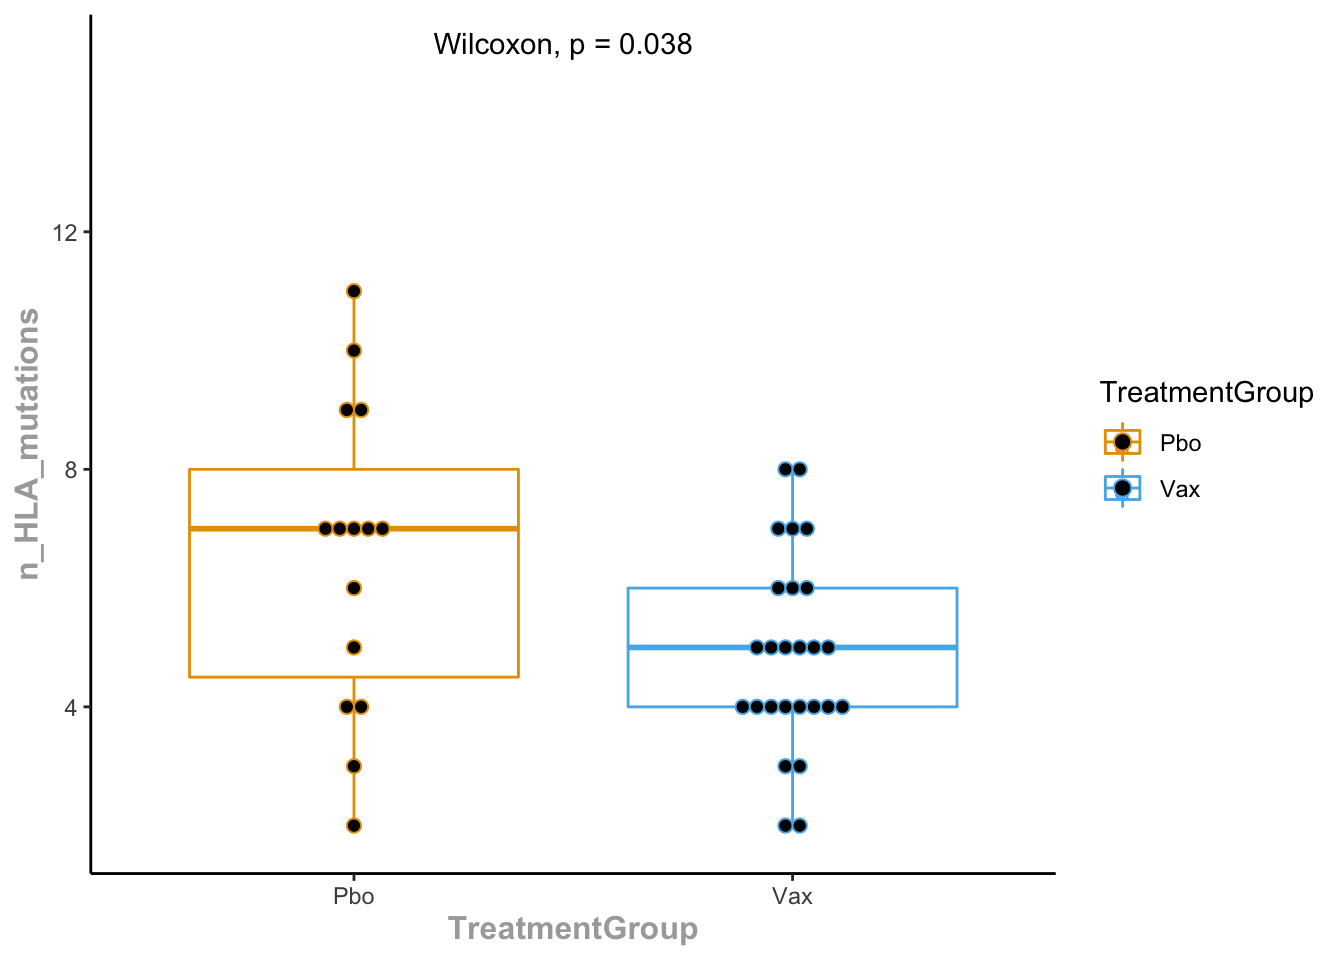
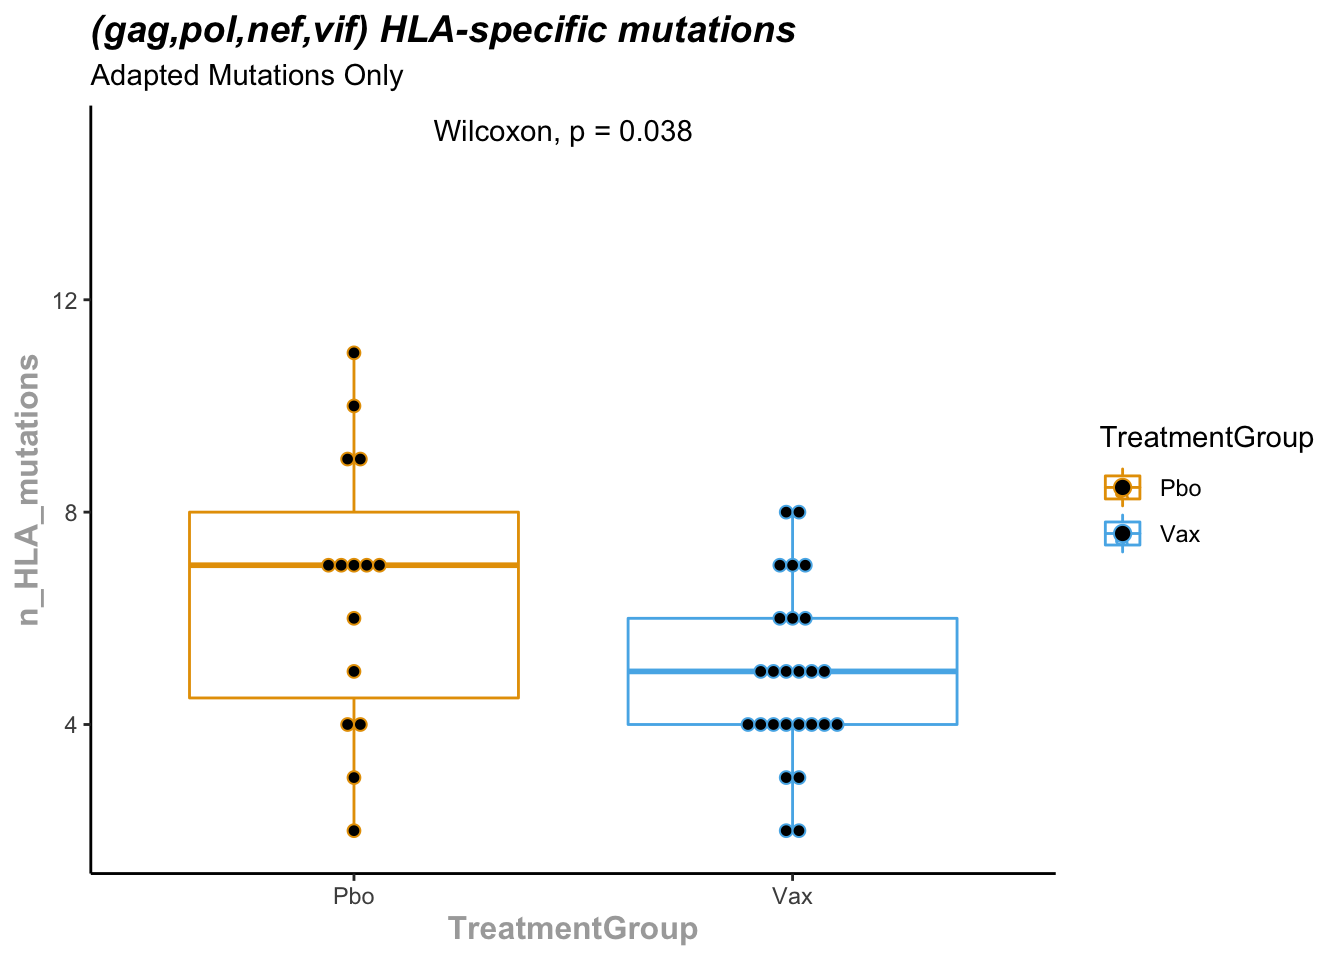
Build site.

diff --git a/docs/051_AdaptedHLAMutations.html b/docs/051_AdaptedHLAMutations.html
@@ -372,7 +372,7 @@ div.tocify {
 
 <p>
 <button type="button" class="btn btn-default btn-workflowr btn-workflowr-report" data-toggle="collapse" data-target="#workflowr-report">
-<span class="glyphicon glyphicon-list" aria-hidden="true"></span> workflowr <span class="glyphicon glyphicon-exclamation-sign text-danger" aria-hidden="true"></span>
+<span class="glyphicon glyphicon-list" aria-hidden="true"></span> workflowr <span class="glyphicon glyphicon-ok text-success" aria-hidden="true"></span>
 </button>
 </p>
 <div id="workflowr-report" class="collapse">
@@ -381,7 +381,7 @@ div.tocify {
 <a data-toggle="tab" href="#summary">Summary</a>
 </li>
 <li>
-<a data-toggle="tab" href="#checks"> Checks <span class="glyphicon glyphicon-exclamation-sign text-danger" aria-hidden="true"></span> </a>
+<a data-toggle="tab" href="#checks"> Checks <span class="glyphicon glyphicon-ok text-success" aria-hidden="true"></span> </a>
 </li>
 <li>
 <a data-toggle="tab" href="#versions">Past versions</a>
@@ -393,7 +393,7 @@ div.tocify {
 <strong>Last updated:</strong> 2022-03-11
 </p>
 <p>
-<strong>Checks:</strong> <span class="glyphicon glyphicon-ok text-success" aria-hidden="true"></span> 6 <span class="glyphicon glyphicon-exclamation-sign text-danger" aria-hidden="true"></span> 1
+<strong>Checks:</strong> <span class="glyphicon glyphicon-ok text-success" aria-hidden="true"></span> 7 <span class="glyphicon glyphicon-exclamation-sign text-danger" aria-hidden="true"></span> 0
 </p>
 <p>
 <strong>Knit directory:</strong> <code>HLA_Analysis/</code> <span class="glyphicon glyphicon-question-sign" aria-hidden="true" title="This is the local directory in which the code in this file was executed."> </span>
@@ -409,12 +409,12 @@ This reproducible <a href="https://rmarkdown.rstudio.com">R Markdown</a> analysi
 <div class="panel panel-default">
 <div class="panel-heading">
 <p class="panel-title">
-<a data-toggle="collapse" data-parent="#workflowr-checks" href="#strongRMarkdownfilestronguncommittedchanges"> <span class="glyphicon glyphicon-exclamation-sign text-danger" aria-hidden="true"></span> <strong>R Markdown file:</strong> uncommitted changes </a>
+<a data-toggle="collapse" data-parent="#workflowr-checks" href="#strongRMarkdownfilestronguptodate"> <span class="glyphicon glyphicon-ok text-success" aria-hidden="true"></span> <strong>R Markdown file:</strong> up-to-date </a>
 </p>
 </div>
-<div id="strongRMarkdownfilestronguncommittedchanges" class="panel-collapse collapse">
+<div id="strongRMarkdownfilestronguptodate" class="panel-collapse collapse">
 <div class="panel-body">
-<p>The R Markdown file has unstaged changes. To know which version of the R Markdown file created these results, you’ll want to first commit it to the Git repo. If you’re still working on the analysis, you can ignore this warning. When you’re finished, you can run <code>wflow_publish</code> to commit the R Markdown file and build the HTML.</p>
+<p>Great! Since the R Markdown file has been committed to the Git repository, you know the exact version of the code that produced these results.</p>
 </div>
 </div>
 </div>
@@ -481,16 +481,16 @@ This reproducible <a href="https://rmarkdown.rstudio.com">R Markdown</a> analysi
 <div class="panel panel-default">
 <div class="panel-heading">
 <p class="panel-title">
-<a data-toggle="collapse" data-parent="#workflowr-checks" href="#strongRepositoryversionstrongahrefhttpsgithubcommnogueraHLAAnalysistreef600d53c3a06f37e1be24473f9b1dba49472790ftargetblankf600d53a"> <span class="glyphicon glyphicon-ok text-success" aria-hidden="true"></span> <strong>Repository version:</strong> <a href="https://github.com/mnoguera/HLA_Analysis/tree/f600d53c3a06f37e1be24473f9b1dba49472790f" target="_blank">f600d53</a> </a>
+<a data-toggle="collapse" data-parent="#workflowr-checks" href="#strongRepositoryversionstrongahrefhttpsgithubcommnogueraHLAAnalysistree521de8e32107c8be83412fb3bdf481364095a3b1targetblank521de8ea"> <span class="glyphicon glyphicon-ok text-success" aria-hidden="true"></span> <strong>Repository version:</strong> <a href="https://github.com/mnoguera/HLA_Analysis/tree/521de8e32107c8be83412fb3bdf481364095a3b1" target="_blank">521de8e</a> </a>
 </p>
 </div>
[2 lines of base64/hex data omitted]
 <div class="panel-body">
 <p>
 Great! You are using Git for version control. Tracking code development and connecting the code version to the results is critical for reproducibility.
 </p>
 <p>
-The results in this page were generated with repository version <a href="https://github.com/mnoguera/HLA_Analysis/tree/f600d53c3a06f37e1be24473f9b1dba49472790f" target="_blank">f600d53</a>. See the <em>Past versions</em> tab to see a history of the changes made to the R Markdown and HTML files.
+The results in this page were generated with repository version <a href="https://github.com/mnoguera/HLA_Analysis/tree/521de8e32107c8be83412fb3bdf481364095a3b1" target="_blank">521de8e</a>. See the <em>Past versions</em> tab to see a history of the changes made to the R Markdown and HTML files.
 </p>
 <p>
 Note that you need to be careful to ensure that all relevant files for the analysis have been committed to Git prior to generating the results (you can use <code>wflow_publish</code> or <code>wflow_git_commit</code>). workflowr only checks the R Markdown file, but you know if there are other scripts or data files that it depends on. Below is the status of the Git repository when the results were generated:
@@ -508,9 +508,8 @@ Ignored files:
     Ignored:    data/Optimal list 2022 with coordinates for ALX 002 analyses 3-2-2022 .xls
     Ignored:    data/VariantData_PASeq/
 
-Unstaged changes:
-    Modified:   analysis/050_AllHLAMutations.Rmd
-    Modified:   analysis/051_AdaptedHLAMutations.Rmd
+Untracked files:
+    Untracked:  analysis/060_EpitopeSequences.Rmd
 
 </code></pre>
 <p>
@@ -549,6 +548,57 @@ Message
 </tr>
 </thead>
 <tbody>
+<tr>
+<td>
+Rmd
+</td>
+<td>
+<a href="https://github.com/mnoguera/HLA_Analysis/blob/521de8e32107c8be83412fb3bdf481364095a3b1/analysis/051_AdaptedHLAMutations.Rmd" target="_blank">521de8e</a>
+</td>
+<td>
+Marc Noguera-Julian
+</td>
+<td>
+2022-03-11
+</td>
+<td>
+workflowr::wflow_publish(all = T)
+</td>
+</tr>
+<tr>
+<td>
+Rmd
+</td>
+<td>
+<a href="https://github.com/mnoguera/HLA_Analysis/blob/2102c289b5620736495be345342b890ee3d989a6/analysis/051_AdaptedHLAMutations.Rmd" target="_blank">2102c28</a>
+</td>
+<td>
+Marc Noguera-Julian
+</td>
+<td>
+2022-03-11
+</td>
+<td>
+remove tables
+</td>
+</tr>
+<tr>
+<td>
+html
+</td>
+<td>
+<a href="https://rawcdn.githack.com/mnoguera/HLA_Analysis/2102c289b5620736495be345342b890ee3d989a6/docs/051_AdaptedHLAMutations.html" target="_blank">2102c28</a>
+</td>
+<td>
+Marc Noguera-Julian
+</td>
+<td>
+2022-03-11
+</td>
+<td>
+remove tables
+</td>
+</tr>
 <tr>
 <td>
 html
@@ -748,7 +798,7 @@ HLA_mutations&lt;-HLA_mutations %&gt;%
 </div>
 <div id="patients-variants" class="section level3">
 <h3>Patients Variants</h3>
-<p>We obtaine AA variants from PASeq and do several things:</p>
+<p>We obtain AA variants from PASeq analysis using self-consensus and codon-level variant calling only on pol, gag, vif and nef. We do several things:</p>
 <ul>
 <li>Keep those above 20% of the viral population.</li>
 <li>Remove Deletion</li>
@@ -772,8 +822,8 @@ variant_df&lt;-lapply(temp, read.csv) %&gt;%
   dplyr::mutate(SampleID=paste0(&quot;Alx_&quot;,strsplit(ID1,&quot;\ &quot;,fixed=T)[[1]][2]))</code></pre>
 </div>
 </div>
-<div id="data-merging" class="section level2">
-<h2>Data Merging</h2>
+<div id="data-analysis" class="section level2">
+<h2>Data Analysis</h2>
 <div id="hla-specifc-mutations-within-each-patient.-2d-resolution-and-both-adaptednonadapted" class="section level3">
 <h3>HLA-specifc mutations within each patient. 2D resolution and both adapted/nonadapted</h3>
 <p>For each patient we select the mutations that are specific to his/her HLA and create a patient-specific mutation string that contains all mutations.</p>
@@ -824,6 +874,7 @@ for (patient in (patient_hla$SampleID)){
     theme_classic()+
     #geom_jitter(shape=16, position=position_jitter(0.2))+
     scale_color_manual(values=c(&quot;#E69F00&quot;, &quot;#56B4E9&quot;))+
+    ggtitle(&quot;(gag,pol,nef,vif) HLA-specific mutations&quot;,subtitle = &quot;Adapted Mutations Only&quot;)+
     theme(
       plot.title = element_text(color=&quot;black&quot;, size=14, face=&quot;bold.italic&quot;),
       axis.title.x = element_text(color=&quot;darkgrey&quot;, size=12, face=&quot;bold&quot;),

diff --git a/docs/050_AllHLAMutations.html b/docs/050_AllHLAMutations.html
@@ -372,7 +372,7 @@ div.tocify {
 
 <p>
 <button type="button" class="btn btn-default btn-workflowr btn-workflowr-report" data-toggle="collapse" data-target="#workflowr-report">
-<span class="glyphicon glyphicon-list" aria-hidden="true"></span> workflowr <span class="glyphicon glyphicon-exclamation-sign text-danger" aria-hidden="true"></span>
+<span class="glyphicon glyphicon-list" aria-hidden="true"></span> workflowr <span class="glyphicon glyphicon-ok text-success" aria-hidden="true"></span>
 </button>
 </p>
 <div id="workflowr-report" class="collapse">
@@ -381,7 +381,7 @@ div.tocify {
 <a data-toggle="tab" href="#summary">Summary</a>
 </li>
 <li>
-<a data-toggle="tab" href="#checks"> Checks <span class="glyphicon glyphicon-exclamation-sign text-danger" aria-hidden="true"></span> </a>
+<a data-toggle="tab" href="#checks"> Checks <span class="glyphicon glyphicon-ok text-success" aria-hidden="true"></span> </a>
 </li>
 <li>
 <a data-toggle="tab" href="#versions">Past versions</a>
@@ -393,7 +393,7 @@ div.tocify {
 <strong>Last updated:</strong> 2022-03-11
 </p>
 <p>
-<strong>Checks:</strong> <span class="glyphicon glyphicon-ok text-success" aria-hidden="true"></span> 6 <span class="glyphicon glyphicon-exclamation-sign text-danger" aria-hidden="true"></span> 1
+<strong>Checks:</strong> <span class="glyphicon glyphicon-ok text-success" aria-hidden="true"></span> 7 <span class="glyphicon glyphicon-exclamation-sign text-danger" aria-hidden="true"></span> 0
 </p>
 <p>
 <strong>Knit directory:</strong> <code>HLA_Analysis/</code> <span class="glyphicon glyphicon-question-sign" aria-hidden="true" title="This is the local directory in which the code in this file was executed."> </span>
@@ -409,12 +409,12 @@ This reproducible <a href="https://rmarkdown.rstudio.com">R Markdown</a> analysi
 <div class="panel panel-default">
 <div class="panel-heading">
 <p class="panel-title">
-<a data-toggle="collapse" data-parent="#workflowr-checks" href="#strongRMarkdownfilestronguncommittedchanges"> <span class="glyphicon glyphicon-exclamation-sign text-danger" aria-hidden="true"></span> <strong>R Markdown file:</strong> uncommitted changes </a>
+<a data-toggle="collapse" data-parent="#workflowr-checks" href="#strongRMarkdownfilestronguptodate"> <span class="glyphicon glyphicon-ok text-success" aria-hidden="true"></span> <strong>R Markdown file:</strong> up-to-date </a>
 </p>
 </div>
-<div id="strongRMarkdownfilestronguncommittedchanges" class="panel-collapse collapse">
+<div id="strongRMarkdownfilestronguptodate" class="panel-collapse collapse">
 <div class="panel-body">
-<p>The R Markdown file has unstaged changes. To know which version of the R Markdown file created these results, you’ll want to first commit it to the Git repo. If you’re still working on the analysis, you can ignore this warning. When you’re finished, you can run <code>wflow_publish</code> to commit the R Markdown file and build the HTML.</p>
+<p>Great! Since the R Markdown file has been committed to the Git repository, you know the exact version of the code that produced these results.</p>
 </div>
 </div>
 </div>
@@ -481,16 +481,16 @@ This reproducible <a href="https://rmarkdown.rstudio.com">R Markdown</a> analysi
 <div class="panel panel-default">
 <div class="panel-heading">
 <p class="panel-title">
-<a data-toggle="collapse" data-parent="#workflowr-checks" href="#strongRepositoryversionstrongahrefhttpsgithubcommnogueraHLAAnalysistreef600d53c3a06f37e1be24473f9b1dba49472790ftargetblankf600d53a"> <span class="glyphicon glyphicon-ok text-success" aria-hidden="true"></span> <strong>Repository version:</strong> <a href="https://github.com/mnoguera/HLA_Analysis/tree/f600d53c3a06f37e1be24473f9b1dba49472790f" target="_blank">f600d53</a> </a>
+<a data-toggle="collapse" data-parent="#workflowr-checks" href="#strongRepositoryversionstrongahrefhttpsgithubcommnogueraHLAAnalysistree521de8e32107c8be83412fb3bdf481364095a3b1targetblank521de8ea"> <span class="glyphicon glyphicon-ok text-success" aria-hidden="true"></span> <strong>Repository version:</strong> <a href="https://github.com/mnoguera/HLA_Analysis/tree/521de8e32107c8be83412fb3bdf481364095a3b1" target="_blank">521de8e</a> </a>
 </p>
 </div>
[2 lines of base64/hex data omitted]
 <div class="panel-body">
 <p>
 Great! You are using Git for version control. Tracking code development and connecting the code version to the results is critical for reproducibility.
 </p>
 <p>
-The results in this page were generated with repository version <a href="https://github.com/mnoguera/HLA_Analysis/tree/f600d53c3a06f37e1be24473f9b1dba49472790f" target="_blank">f600d53</a>. See the <em>Past versions</em> tab to see a history of the changes made to the R Markdown and HTML files.
+The results in this page were generated with repository version <a href="https://github.com/mnoguera/HLA_Analysis/tree/521de8e32107c8be83412fb3bdf481364095a3b1" target="_blank">521de8e</a>. See the <em>Past versions</em> tab to see a history of the changes made to the R Markdown and HTML files.
 </p>
 <p>
 Note that you need to be careful to ensure that all relevant files for the analysis have been committed to Git prior to generating the results (you can use <code>wflow_publish</code> or <code>wflow_git_commit</code>). workflowr only checks the R Markdown file, but you know if there are other scripts or data files that it depends on. Below is the status of the Git repository when the results were generated:
@@ -508,9 +508,8 @@ Ignored files:
     Ignored:    data/Optimal list 2022 with coordinates for ALX 002 analyses 3-2-2022 .xls
     Ignored:    data/VariantData_PASeq/
 
-Unstaged changes:
-    Modified:   analysis/050_AllHLAMutations.Rmd
-    Modified:   analysis/051_AdaptedHLAMutations.Rmd
+Untracked files:
+    Untracked:  analysis/060_EpitopeSequences.Rmd
 
 </code></pre>
 <p>
@@ -549,6 +548,57 @@ Message
 </tr>
 </thead>
 <tbody>
+<tr>
+<td>
+Rmd
+</td>
+<td>
+<a href="https://github.com/mnoguera/HLA_Analysis/blob/521de8e32107c8be83412fb3bdf481364095a3b1/analysis/050_AllHLAMutations.Rmd" target="_blank">521de8e</a>
+</td>
+<td>
+Marc Noguera-Julian
+</td>
+<td>
+2022-03-11
+</td>
+<td>
+workflowr::wflow_publish(all = T)
+</td>
+</tr>
+<tr>
+<td>
+Rmd
+</td>
+<td>
+<a href="https://github.com/mnoguera/HLA_Analysis/blob/2102c289b5620736495be345342b890ee3d989a6/analysis/050_AllHLAMutations.Rmd" target="_blank">2102c28</a>
+</td>
+<td>
+Marc Noguera-Julian
+</td>
+<td>
+2022-03-11
+</td>
+<td>
+remove tables
+</td>
+</tr>
+<tr>
+<td>
+html
+</td>
+<td>
+<a href="https://rawcdn.githack.com/mnoguera/HLA_Analysis/2102c289b5620736495be345342b890ee3d989a6/docs/050_AllHLAMutations.html" target="_blank">2102c28</a>
+</td>
+<td>
+Marc Noguera-Julian
+</td>
+<td>
+2022-03-11
+</td>
+<td>
+remove tables
+</td>
+</tr>
 <tr>
 <td>
 html
@@ -765,7 +815,7 @@ HLA_mutations&lt;-HLA_mutations %&gt;%
 </div>
 <div id="patients-variants" class="section level3">
 <h3>Patients Variants</h3>
-<p>We obtaine AA variants from PASeq and do several things:</p>
+<p>We obtain AA variants from PASeq analysis using self-consensus and codon-level variant calling only on pol, gag, vif and nef. We do several things:</p>
 <ul>
 <li>Keep those above 20% of the viral population.</li>
 <li>Remove Deletion</li>
@@ -830,6 +880,7 @@ variant_df %&gt;%
     theme_classic()+
     #geom_jitter(shape=16, position=position_jitter(0.2))+
     scale_color_manual(values=c(&quot;#E69F00&quot;, &quot;#56B4E9&quot;))+
+    ggtitle(&quot;(gag,pol,nef,vif) HLA-specific mutations&quot;,subtitle = &quot;Adapted and non-Adapted Mutations&quot;)+
     theme(
       plot.title = element_text(color=&quot;black&quot;, size=14, face=&quot;bold.italic&quot;),
       axis.title.x = element_text(color=&quot;darkgrey&quot;, size=12, face=&quot;bold&quot;),
